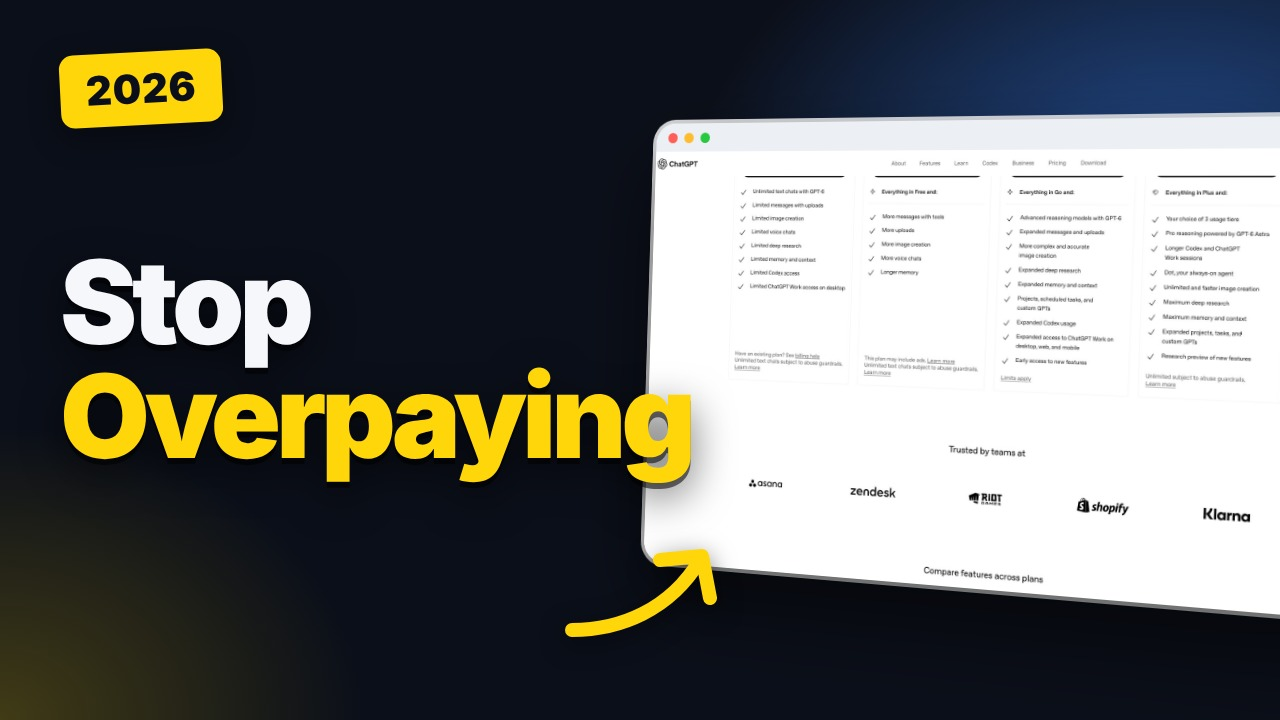
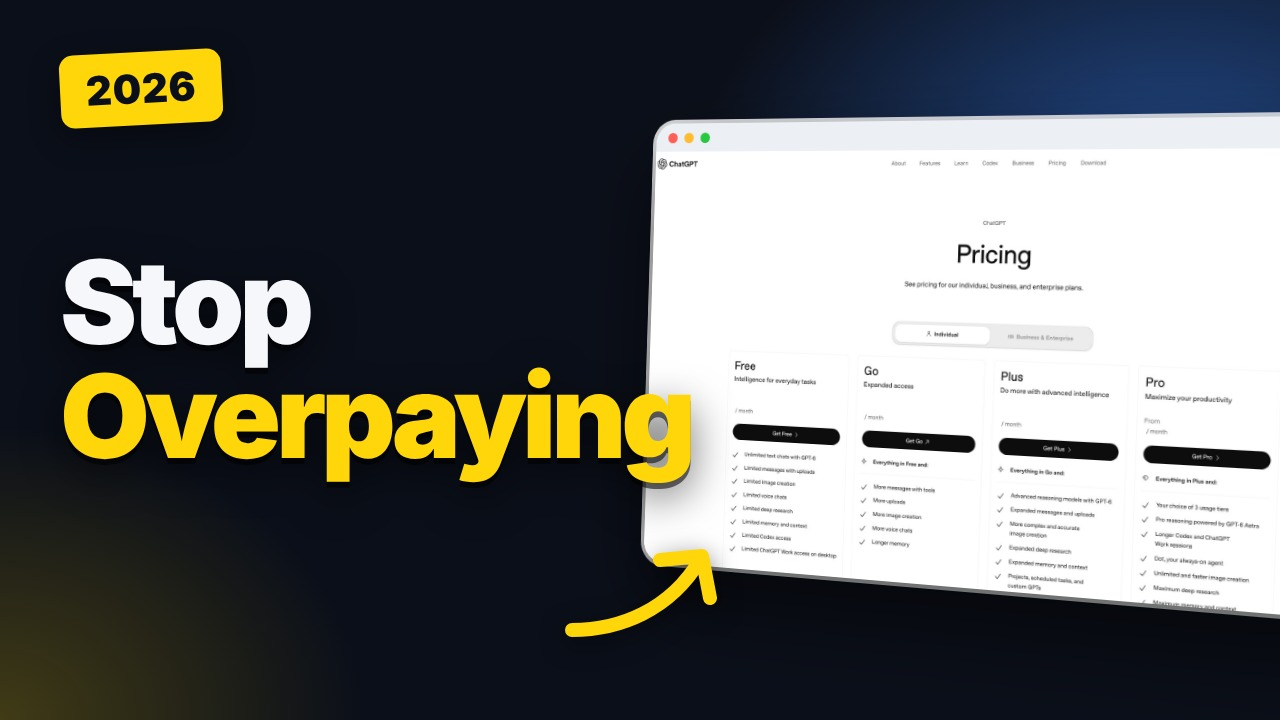
YouTube kanalı: ilk bölüm tamamlandı; dürüst yapay zekâ beyanı, uzun panellerde taşma düzeltmesi
Claude-Session: https://claude.ai/code/session_012PZAbjBrC7pp2zZRmc1u5L

diff --git a/youtube-kanal/pipeline/src/render/stage.html b/youtube-kanal/pipeline/src/render/stage.html
@@ -39,7 +39,7 @@
   .title-sub { font-size: 44px; font-weight: 500; opacity: .78; max-width: 1400px; line-height: 1.3; }
 
   /* bullets / steps / compare common heading */
-  .panel { position: absolute; inset: 0; padding: 140px 160px 110px; display: flex; flex-direction: column; justify-content: center; gap: 64px; }
+  .panel { position: absolute; inset: 0; padding: 140px 160px 110px; display: flex; flex-direction: column; justify-content: safe center; gap: 64px; }
   .h2 { font-size: 80px; font-weight: 800; letter-spacing: -0.02em; line-height: 1.1; }
   .editor-h { position: absolute; top: 150px; left: 160px; right: 160px; }
   .list { display: flex; flex-direction: column; gap: 40px; }
